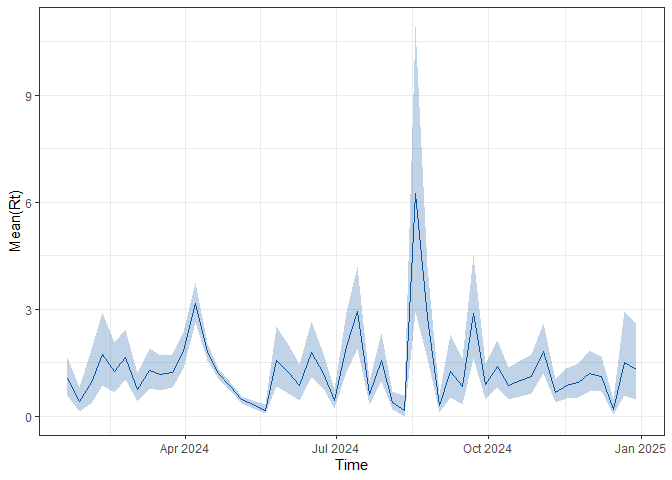
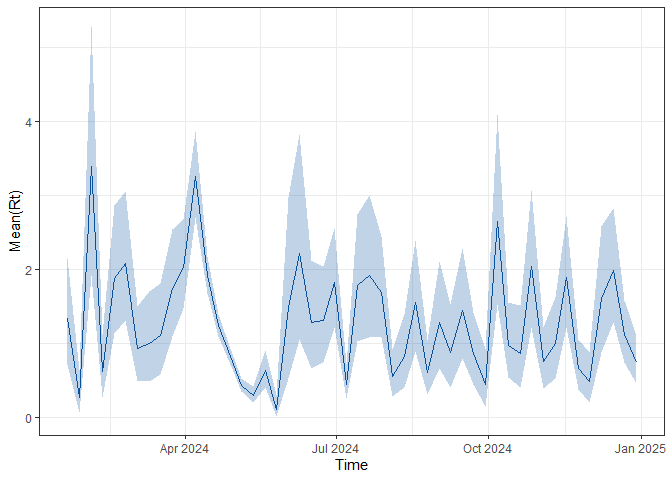
rebuild readme.md with devtools::build_readme() again. removed typo

diff --git a/README.md b/README.md
@@ -97,46 +97,46 @@ head(vri_data_list)
 #>    date       confirm
 #>    <date>       <dbl>
 #>  1 2024-01-07       1
-#>  2 2024-01-08       5
+#>  2 2024-01-08       9
 #>  3 2024-01-09       0
-#>  4 2024-01-10       6
-#>  5 2024-01-11       0
-#>  6 2024-01-12       6
+#>  4 2024-01-10       0
+#>  5 2024-01-11       1
+#>  6 2024-01-12       0
 #>  7 2024-01-13       0
 #>  8 2024-01-14       0
 #>  9 2024-01-15       0
-#> 10 2024-01-16      14
+#> 10 2024-01-16       4
 #> # ℹ 356 more rows
 #> 
 #> $rsv
 #> # A tibble: 366 × 2
 #>    date       confirm
 #>    <date>       <dbl>
-#>  1 2024-01-07       0
+#>  1 2024-01-07       1
 #>  2 2024-01-08       8
-#>  3 2024-01-09      11
-#>  4 2024-01-10       6
-#>  5 2024-01-11       0
-#>  6 2024-01-12       0
+#>  3 2024-01-09       0
+#>  4 2024-01-10       0
+#>  5 2024-01-11       4
+#>  6 2024-01-12       6
 #>  7 2024-01-13       0
-#>  8 2024-01-14       0
-#>  9 2024-01-15       6
-#> 10 2024-01-16       7
+#>  8 2024-01-14       3
+#>  9 2024-01-15       0
+#> 10 2024-01-16       0
 #> # ℹ 356 more rows
 #> 
 #> $sars_cov2
 #> # A tibble: 366 × 2
 #>    date       confirm
 #>    <date>       <dbl>
-#>  1 2024-01-07       3
-#>  2 2024-01-08       0
-#>  3 2024-01-09       7
-#>  4 2024-01-10       0
-#>  5 2024-01-11       8
-#>  6 2024-01-12       6
+#>  1 2024-01-07       0
+#>  2 2024-01-08       3
+#>  3 2024-01-09       0
+#>  4 2024-01-10       8
+#>  5 2024-01-11       0
+#>  6 2024-01-12       2
 #>  7 2024-01-13       0
-#>  8 2024-01-14       0
-#>  9 2024-01-15       5
+#>  8 2024-01-14       2
+#>  9 2024-01-15       0
 #> 10 2024-01-16       2
 #> # ℹ 356 more rows
 ```
@@ -241,9 +241,10 @@ output directory (`output_directory)` where the report will be saved.
 ``` r
 # rendering forecast report
 df <- imap_dfr(vri_data_list, ~ .x %>% mutate(disease_type = .y))
-write.csv(df, "simulated_data.csv", row.names = FALSE)
+input_file<-"simulated_data.csv"
+write.csv(df, input_file, row.names = FALSE)
 generate_forecast_report(
-  input_data_dir = "simulated_data.csv", # input filepath
+  input_data_dir =  input_file, # input filepath
   output_dir = output_directory, # output directory
   n_days = 14, # number of days to forecast
   validate_window_size = 7, # number of days between each validation window
